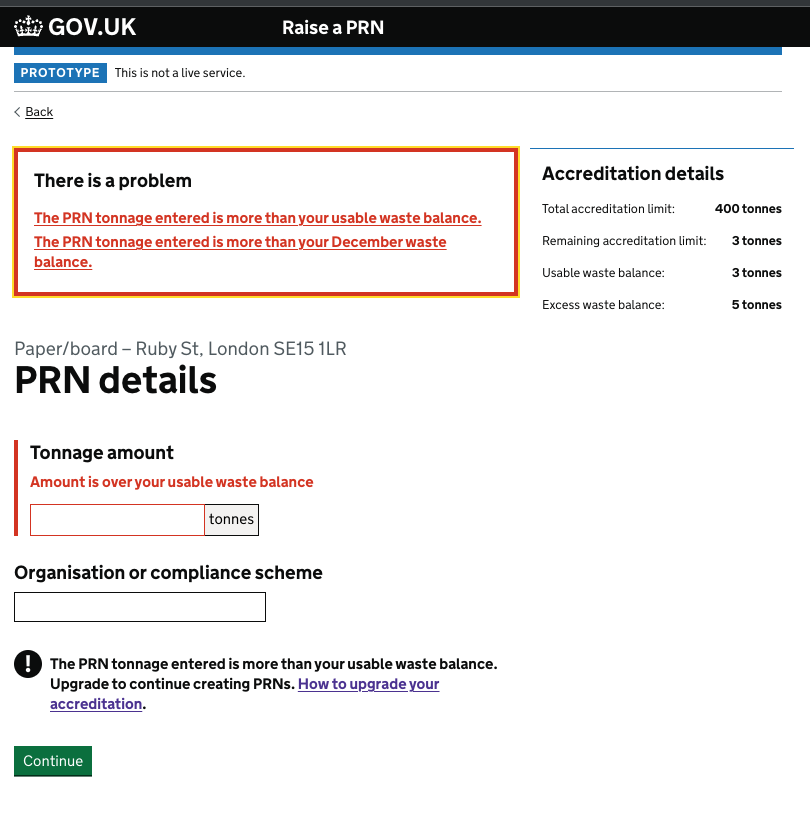
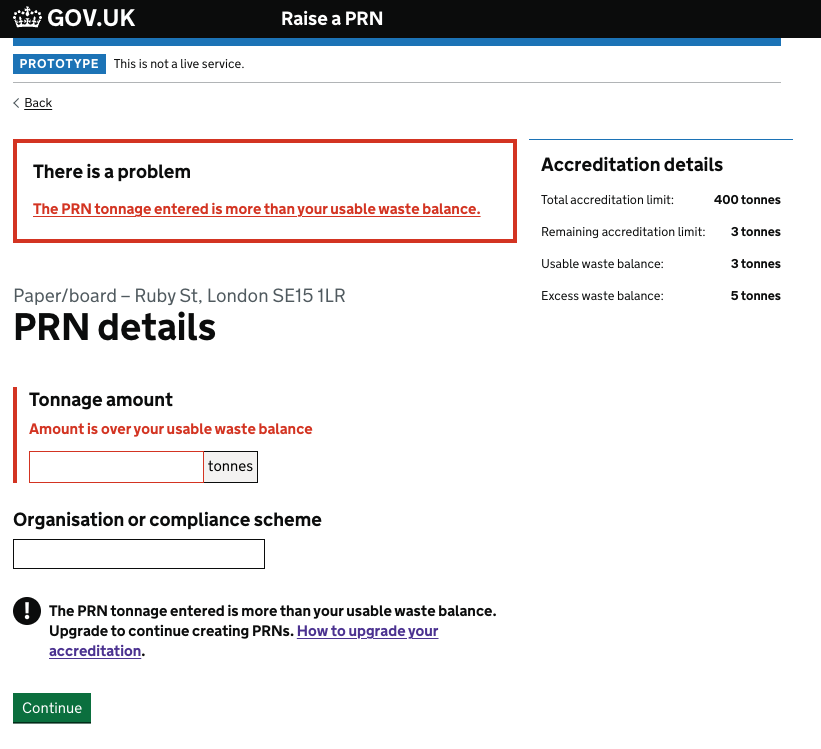
content

Changed region(s): [[0.0, 0.0, 1.0, 0.4913], [0.0, 0.6756, 0.6173, 0.9826], [0.0, 0.522, 0.4012, 0.6449]]

diff --git a/public/fourth-iteration/index.html b/public/fourth-iteration/index.html
@@ -75,15 +75,28 @@
     <div class="govuk-grid-column-two-thirds-from-desktop">
 <div class="app-prose-scope">
         <h3 id="december-waste-moved" tabindex="-1" class="govuk-heading-m"><a class="app-link--heading govuk-link" href="#december-waste-moved"><span>December waste moved</span></a></h3>
+<p class="govuk-body">Users wanted to see the December waste balance question on this page while they were filling in the details.</p>
+<p class="govuk-body">We have amended the design to show this detail, it will only appear in January.</p>
+<p class="govuk-body">We put the December waste question first to help with validation, so we immediately know which balance they are using and can validate on that.</p>
 <figure><img src="/PRN-detials.png" alt="PRN details"></figure>
 <h3 id="accreditation-page-redesign---site-added" tabindex="-1" class="govuk-heading-m"><a class="app-link--heading govuk-link" href="#accreditation-page-redesign---site-added"><span>Accreditation page redesign - site added</span></a></h3>
+<p class="govuk-body">‘Multiple site’ users were worried that the accreditation shown might be showing site balances added together. We have redesigned to show sites per accreditation.</p>
+<p class="govuk-body">An access needs user wanted the page to have a description for ease of understanding, We added a description to page, we don’t tend to add these until later rounds, so we don’t steer the users when asking if they understand the pages.</p>
+<p class="govuk-body">‘PRNs ready to send’ messaging was deemed not needed so we took it out.</p>
+<p class="govuk-body">We also changed the wording to ‘usable waste balance’ to match new accreditation details on other pages.</p>
 <figure><img src="/accreditation-redesign.png" alt="accreditation redesign"></figure>
 <h3 id="accreditation-details---limits-and-validation-errors-etc" tabindex="-1" class="govuk-heading-m"><a class="app-link--heading govuk-link" href="#accreditation-details---limits-and-validation-errors-etc"><span>Accreditation details - limits and validation errors etc</span></a></h3>
+<p class="govuk-body">We added the accreditation limits so we can validate and show errors for going over a limit. We have used the terminology ‘Usable waste balance’ to signify the balance they can raise a PRN against and ‘Excess waste balance’ to show the waste they have recorded over their current accreditation limit. This would also be reflected in the regulator site, to show they have exceeded their limit.</p>
+<p class="govuk-body">The system would allow them to record waste, but tell them they have exceeded their limit and need to upgrade their accreditation to use this excess waste balance to create a PRN.</p>
+<p class="govuk-body">The system will not allow them to create a PRN against their excess waste balance, only the usable waste balance, they would get validation errors to explain what is happening.</p>
 <figure><img src="/kick-out.png" alt="kick out"></figure>
 <figure><img src="/validation.png" alt="validation"></figure>
+<figure><img src="/waste-validation.png" alt="waste validation"></figure>
 <h3 id="what-have-you-done-with-the-waste---changed-from-recycling---failed-experiment!" tabindex="-1" class="govuk-heading-m"><a class="app-link--heading govuk-link" href="#what-have-you-done-with-the-waste---changed-from-recycling---failed-experiment!"><span>What have you done with the waste - changed from recycling - failed experiment!</span></a></h3>
+<p class="govuk-body">We tried to use the terminology ‘recycling’ to match the use in the new legislation, the users were unanimous in telling us that they did not use that terminology and preferred ‘reprocessing’. We have changed it back but would warrant further exploration as it is used in the legislation.</p>
 <figure><img src="/what-done-waste.png" alt="what you done with the waste"></figure>
 <h3 id="site-name-in-caption" tabindex="-1" class="govuk-heading-m"><a class="app-link--heading govuk-link" href="#site-name-in-caption"><span>Site name in caption</span></a></h3>
+<p class="govuk-body">We have added the site name into the caption as the users were concerned that they would not remember what site they had selected.</p>
 <figure><img src="/site-name-caption.png" alt="site name"></figure>
 
 

diff --git a/app/posts/2023-09-01-fourth-iteration.md b/app/posts/2023-09-01-fourth-iteration.md
@@ -7,27 +7,54 @@ date: 2023-09-01
 
 ### December waste moved
 
+Users wanted to see the December waste balance question on this page while they were filling in the details.
 
+We have amended the design to show this detail, it will only appear in January.  
+
+We put the December waste question first to help with validation, so we immediately know which balance they are using and can validate on that.  
 
 ![PRN details](/PRN-detials.png)
 
 ### Accreditation page redesign - site added
 
+‘Multiple site’ users were worried that the accreditation shown might be showing site balances added together. We have redesigned to show sites per accreditation.
+
+
+
+An access needs user wanted the page to have a description for ease of understanding, We added a description to page, we don't tend to add these until later rounds, so we don't steer the users when asking if they understand the pages.
+
+
+'PRNs ready to send' messaging was deemed not needed so we took it out.  
+
+
+We also changed the wording to 'usable waste balance' to match new accreditation details on other pages.
 
 ![accreditation redesign](/accreditation-redesign.png)
 
 ### Accreditation details - limits and validation errors etc
 
-![kick out](/kick-out.png)
+We added the accreditation limits so we can validate and show errors for going over a limit. We have used the terminology ‘Usable waste balance’ to signify the balance they can raise a PRN against and ‘Excess waste balance’ to show the waste they have recorded over their current accreditation limit. This would also be reflected in the regulator site, to show they have exceeded their limit.  
 
+The system would allow them to record waste, but tell them they have exceeded their limit and need to upgrade their accreditation to use this excess waste balance to create a PRN.  
+
+The system will not allow them to create a PRN against their excess waste balance, only the usable waste balance, they would get validation errors to explain what is happening.  
+
+![kick out](/kick-out.png)
 
 ![validation](/validation.png)
 
+![waste validation](/waste-validation.png)
+
 ### What have you done with the waste - changed from recycling - failed experiment!
+
+We tried to use the terminology ‘recycling’ to match the use in the new legislation, the users were unanimous in telling us that they did not use that terminology and preferred ‘reprocessing’. We have changed it back but would warrant further exploration as it is used in the legislation.  
+
+
 
 ![what you done with the waste](/what-done-waste.png)
 
 ### Site name in caption
 
+We have added the site name into the caption as the users were concerned that they would not remember what site they had selected.
 
 ![site name](/site-name-caption.png)
